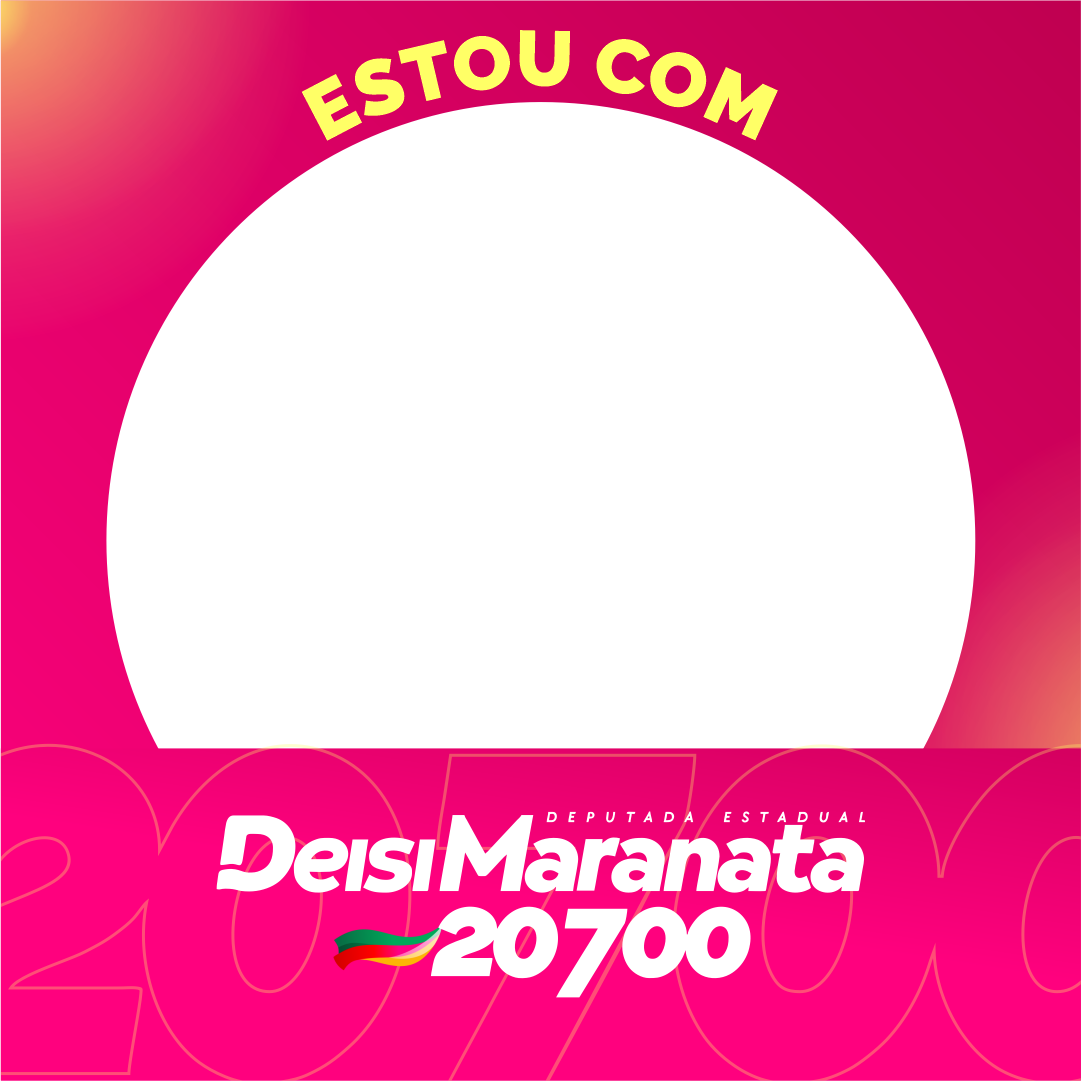
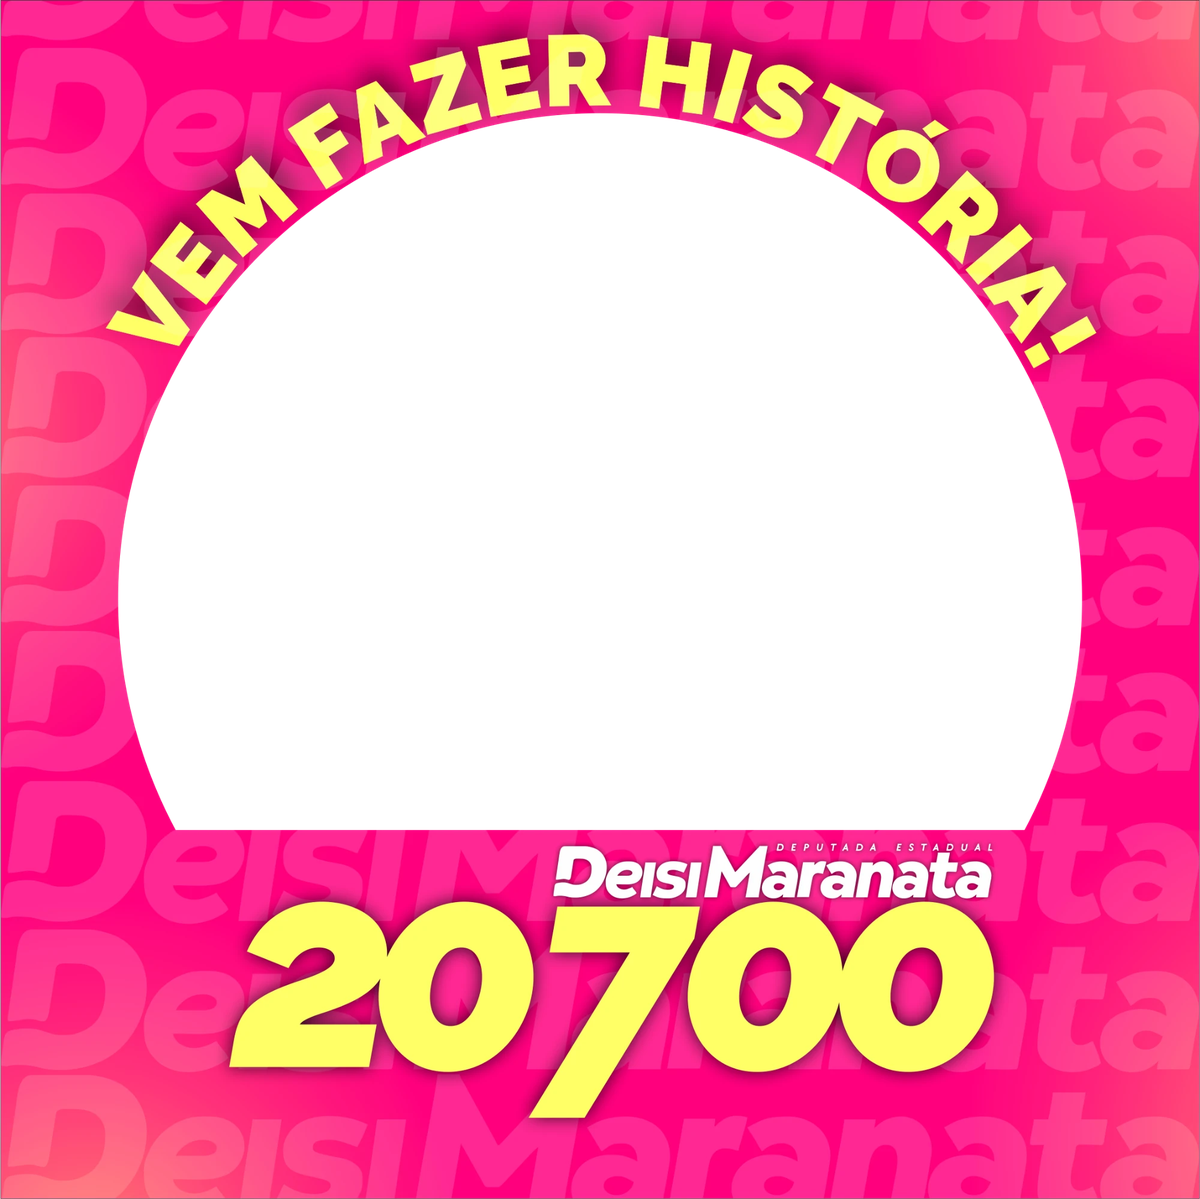
feat(gerador-foto): atualiza arte da moldura classica pra "Vem fazer historia"
Troca a arte da primeira moldura (recorte em formato cupula) pelo
novo design enviado -- fundo magenta com padrao "Deisi Maranata"
repetido, texto em arco "VEM FAZER HISTORIA!" e logo/numero embaixo.
Geometria do recorte remedida na propria arte (bbox do canal alfa)
e recalibrada: circulo aproximado centralizado na imagem, diametro
igual a largura real da area transparente -- mesma tecnica de
aproximacao ja usada na arte original. Renomeia o rotulo no seletor
de "Estou com Deisi" pra "Vem fazer historia".

diff --git a/src/components/GeradorFoto.tsx b/src/components/GeradorFoto.tsx
@@ -23,12 +23,12 @@ interface Moldura {
 const MOLDURAS: Moldura[] = [
   {
     id: "classica",
-    nome: "Estou com Deisi",
+    nome: "Vem fazer história",
     thumb: "/assets/moldura/moldura-estou-com-deisi.png",
     src: "/assets/moldura/moldura-estou-com-deisi.png",
-    w: 1081,
-    h: 1081,
-    hole: { type: "circle", cx: 540.5, cy: 540, d: 868 },
+    w: 1200,
+    h: 1199,
+    hole: { type: "circle", cx: 599.5, cy: 599.5, d: 961 },
     downloadName: "foto-perfil-deisi-maranata-20700.png",
   },
   {
